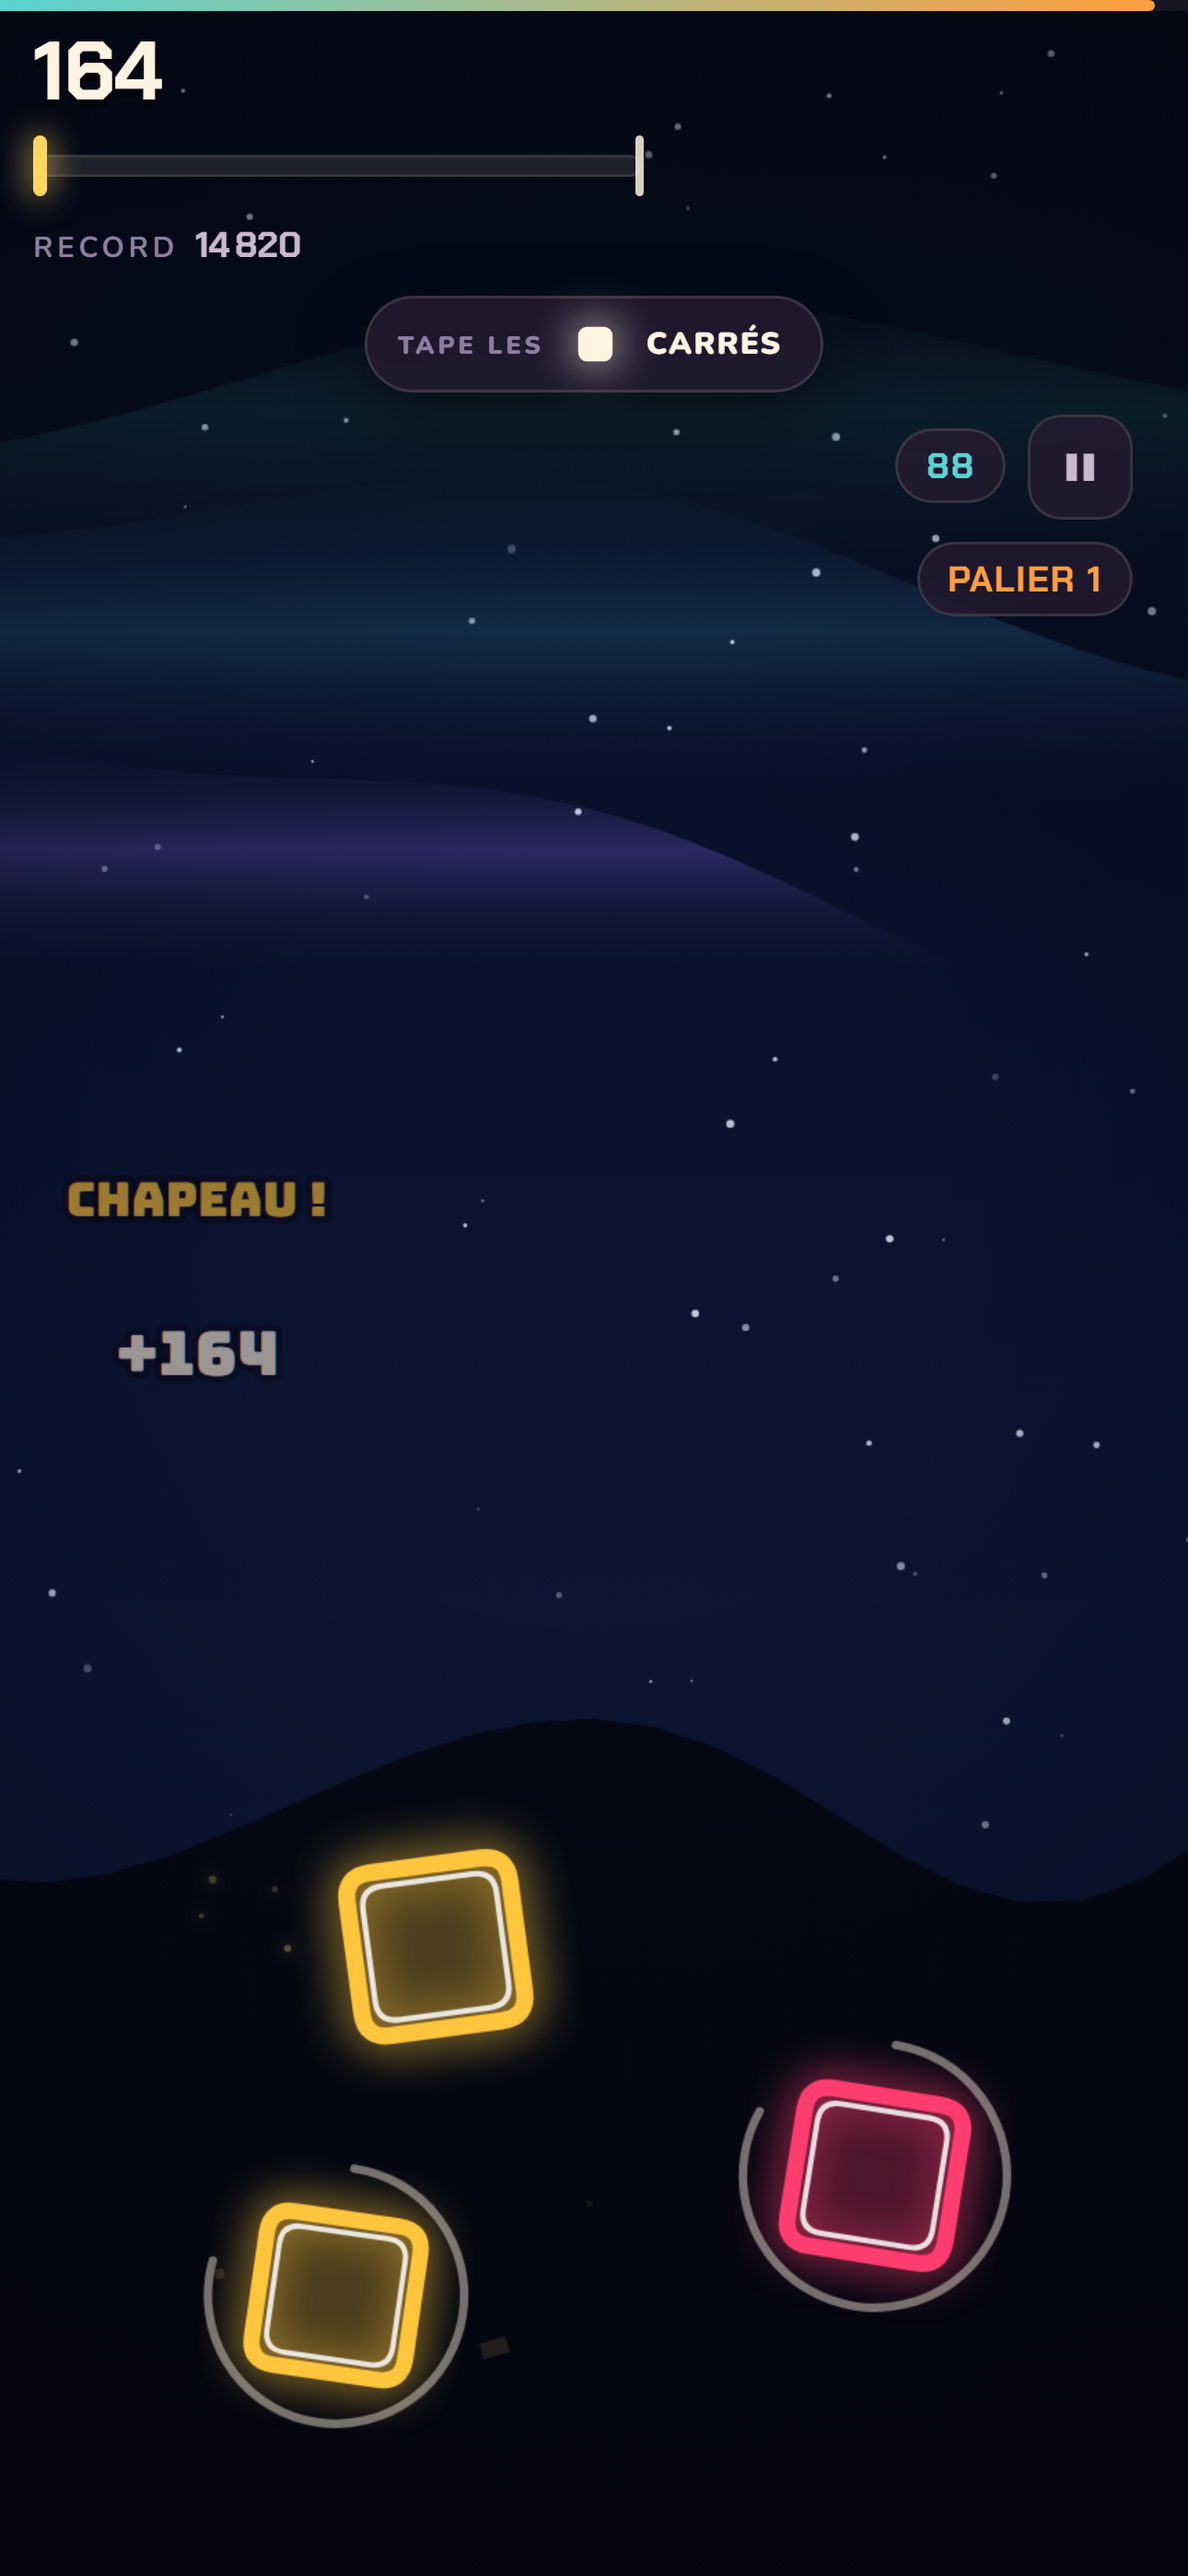
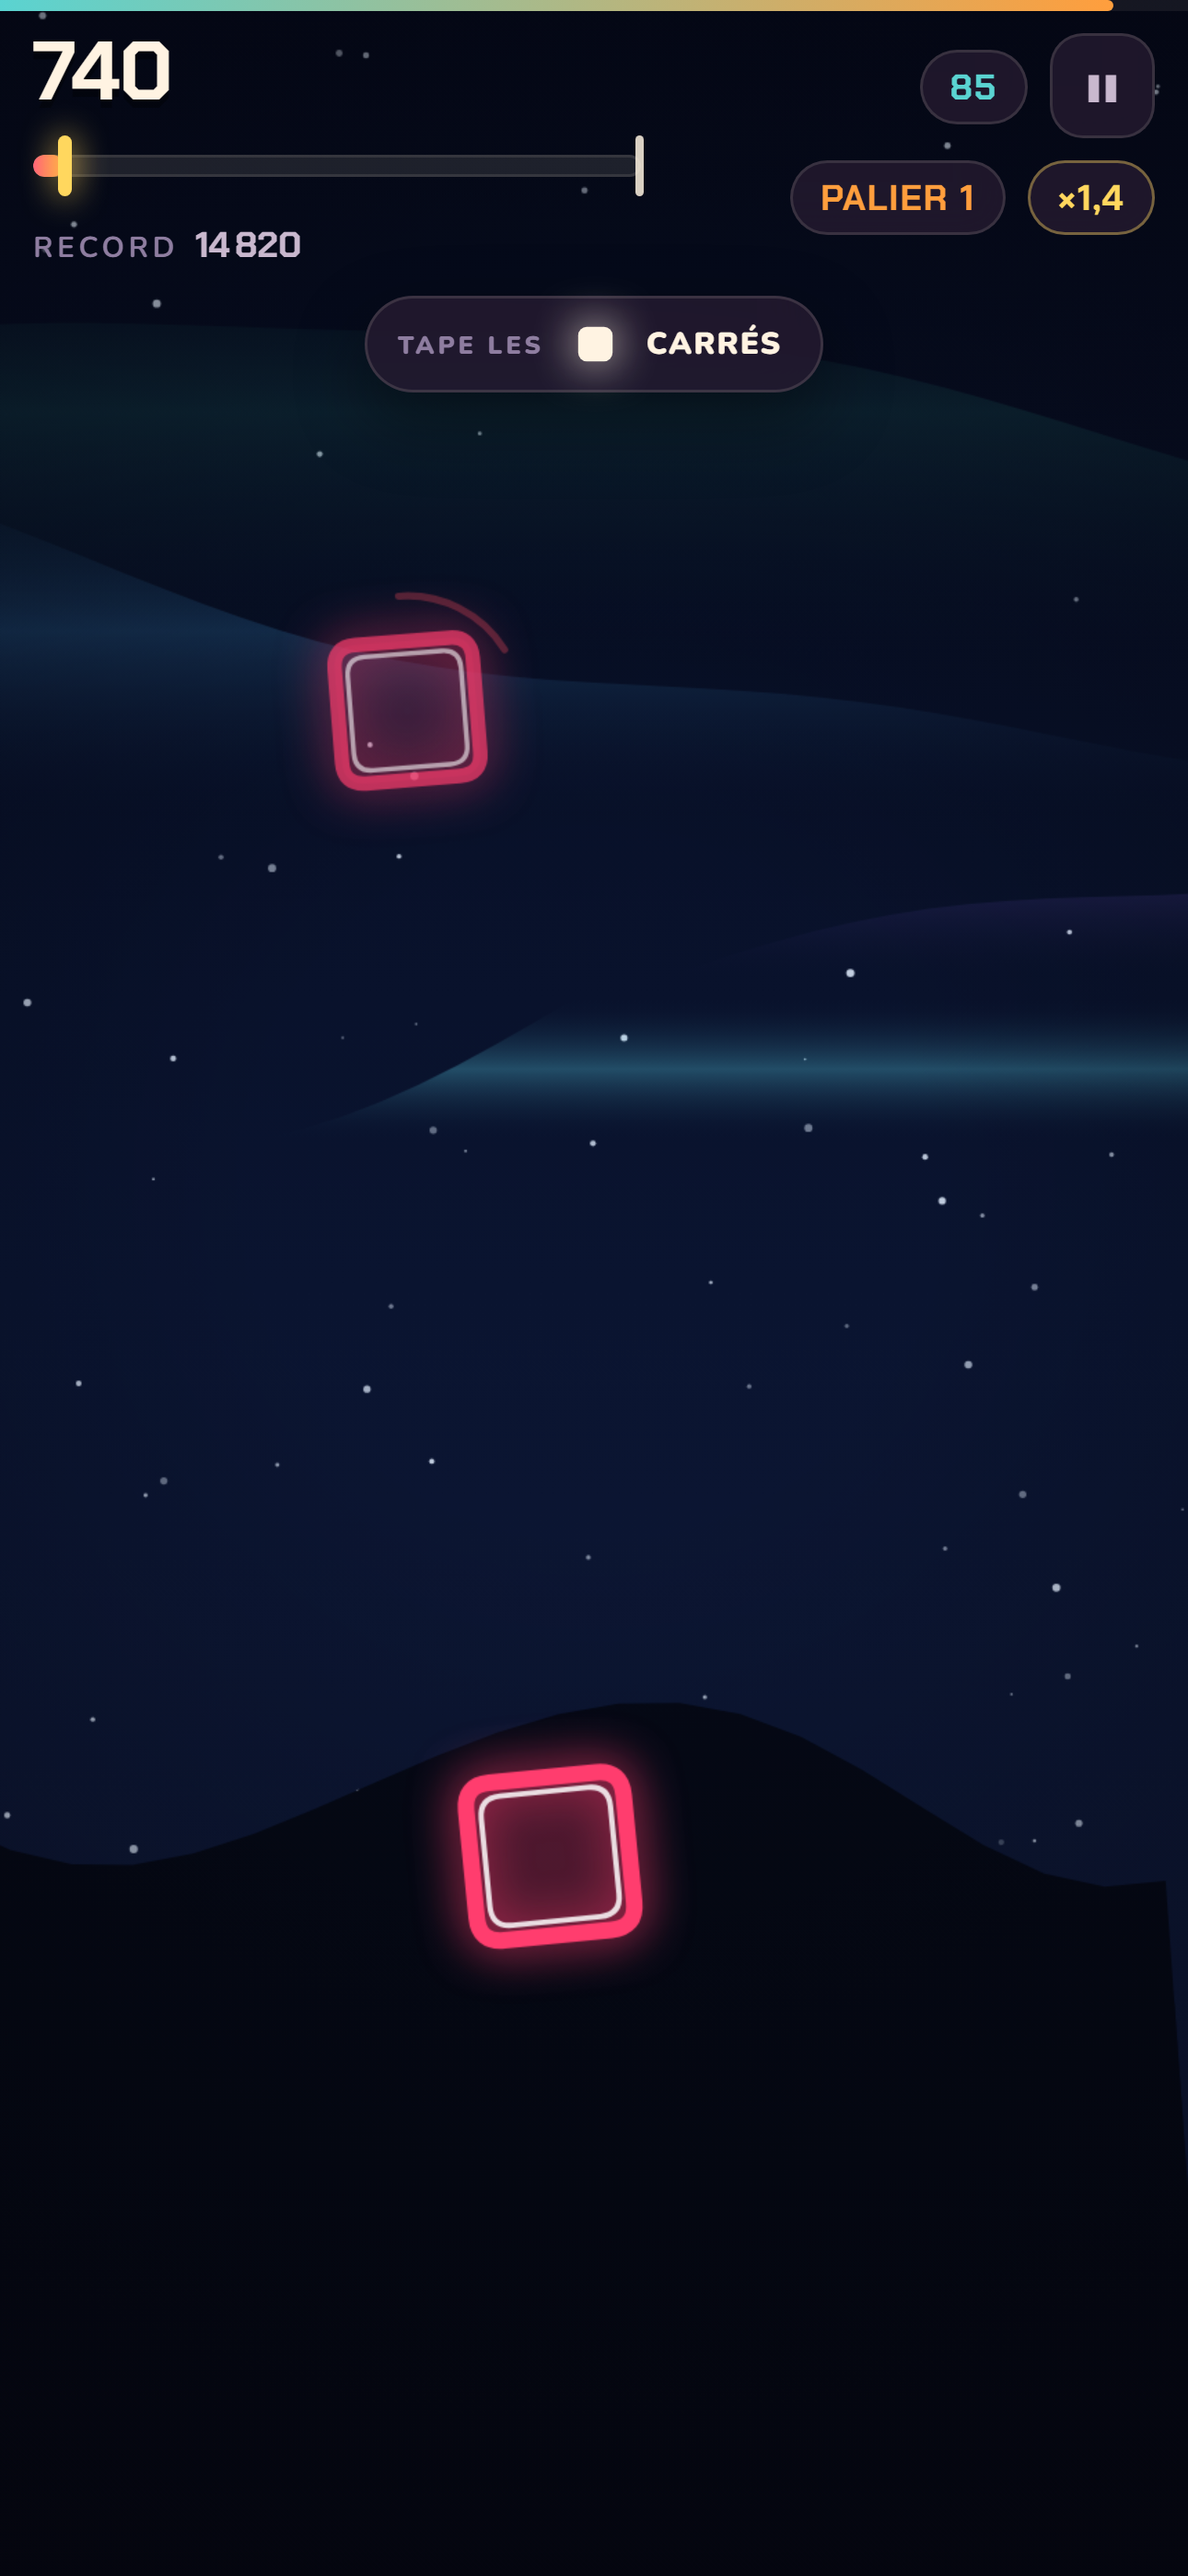
HUD sur téléphone : la colonne droite ne se fait plus repousser vers le bas
Sur écran étroit (@media max-width:520px), la consigne passe volontairement sur
sa propre ligne — mais comme elle s'insérait au milieu de l'ordre du HUD, la
grille repoussait la colonne de droite (chrono, pause, palier, combo) vers le
bas, éparpillant le HUD dans la zone de jeu.

Corrigé avec des zones nommées : "score right" / "rule rule". Le score reste en
haut à gauche, chrono/pause/palier/combo reviennent en haut à droite (alignés),
et la consigne s'affiche en pleine largeur juste dessous. Partira dans le
prochain build.

Captures store rafraîchies avec le HUD corrigé.

diff --git a/index.html b/index.html
@@ -363,10 +363,16 @@ h2.title{
 .hint b{color:var(--teal)}
 
 @media (max-width:520px){
-  #hud{grid-template-columns:1fr auto;gap:8px;
+  /* Grille en zones : score en haut à gauche, chrono/pause/palier en haut à
+     droite (alignés), et la consigne en pleine largeur juste dessous — sans
+     que la colonne de droite ne se fasse repousser vers le bas. */
+  #hud{grid-template-columns:1fr auto;gap:6px 8px;align-items:start;
+       grid-template-areas:"score right" "rule rule";
        padding:calc(12px + env(safe-area-inset-top)) calc(12px + env(safe-area-inset-right))
                0 calc(12px + env(safe-area-inset-left))}
-  .rule{grid-column:1/-1;justify-self:center;margin-top:2px}
+  .score-wrap{grid-area:score}
+  .hud-col-r{grid-area:right}
+  .rule{grid-area:rule;justify-self:center;margin-top:4px}
   .rail{width:min(56vw,220px)}
   .stats{grid-template-columns:repeat(2,1fr)}
   .item{grid-template-columns:auto 1fr;grid-template-rows:auto auto}
